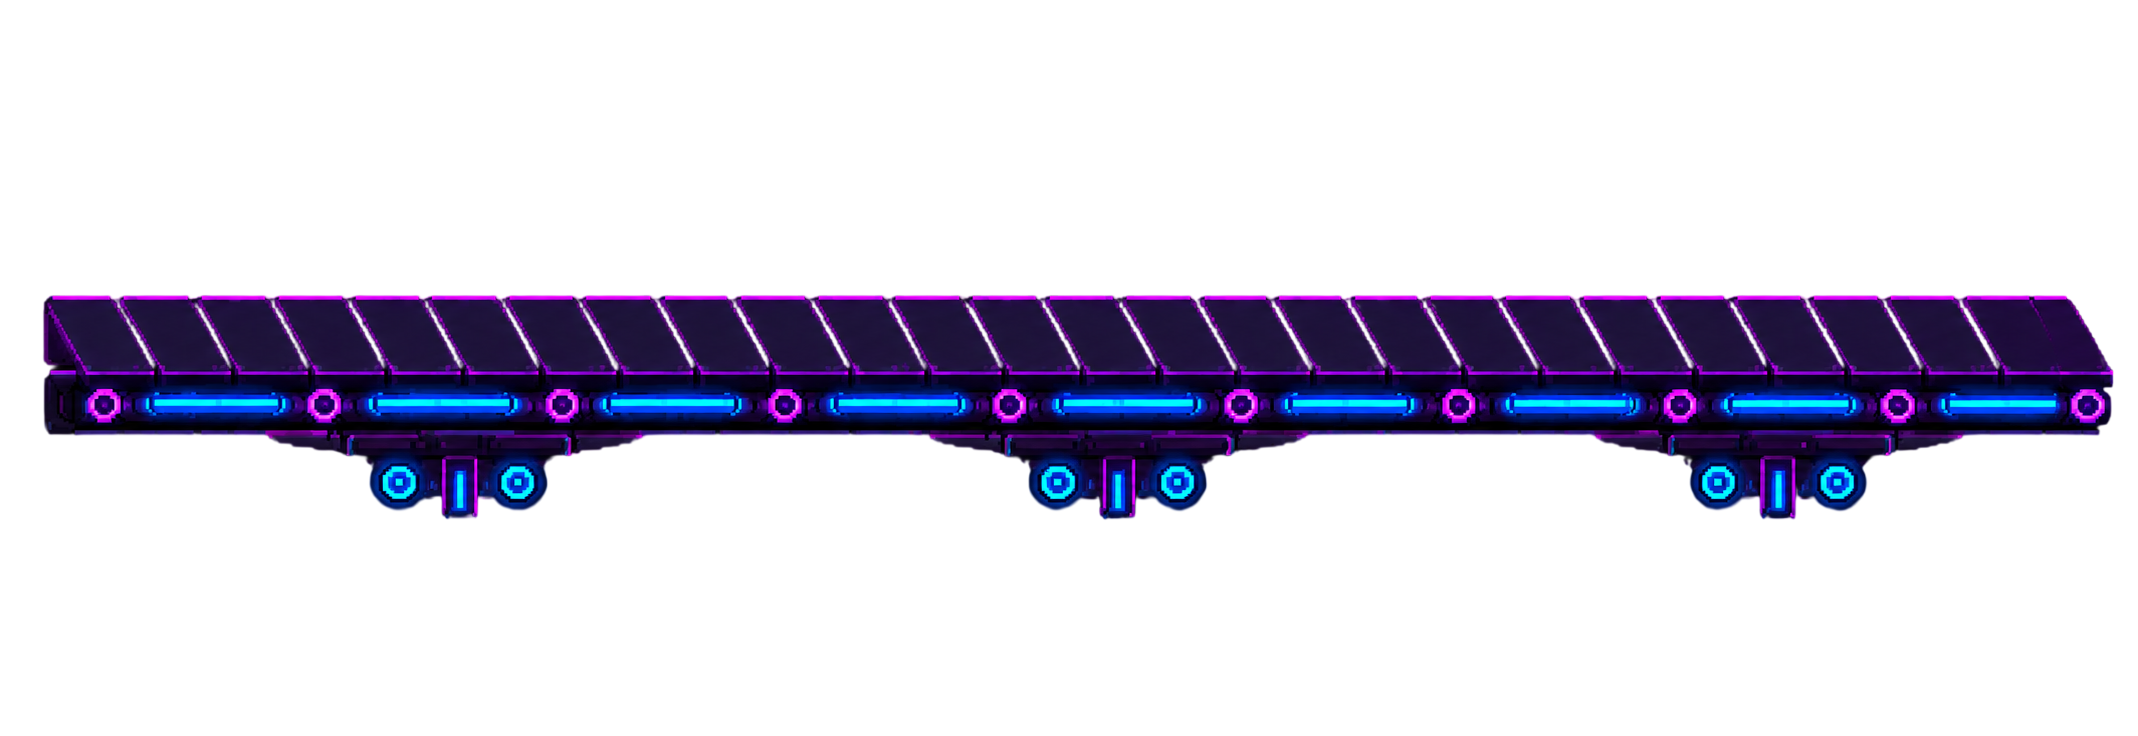
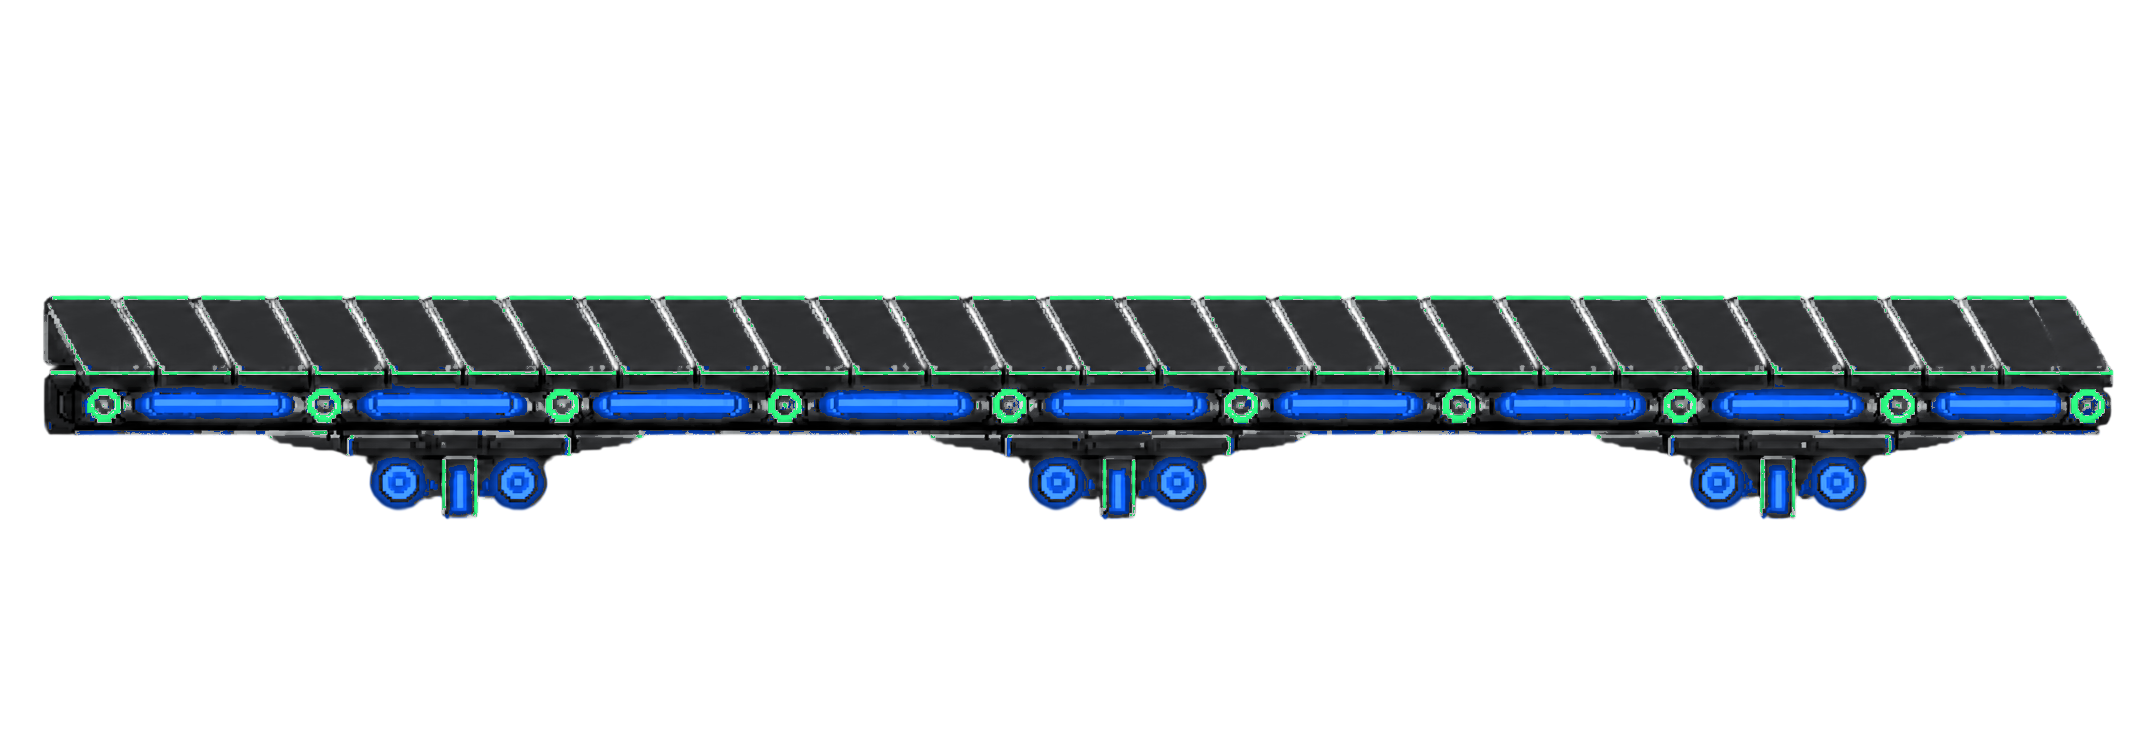
Uniko Wave: esteira recolorida em cinza, preto, cinza claro, azul e verde
Os 3 frames da esteira da Guerra Estelar (roxo/magenta/ciano) viram:
placas cinza, sombras/base preta, detalhes cinza claro, luzes azuis e
anéis/bordas neon verdes. Recolor por matiz preservando o brilho de cada
pixel (mesmo desenho). A esteira procedural de fallback (enquanto as
imagens carregam) segue a mesma paleta. Mapas com esteira própria
(beltUrl) não mudam.

Claude-Session: https://claude.ai/code/session_01K7Wrk8x5Zsu4rRhhWoSRbJ

Changed region(s): [[0.0, 0.375, 0.9878, 0.7188]]

diff --git a/public/unikowave/index.html b/public/unikowave/index.html
@@ -9477,19 +9477,19 @@ function wgDrawBelt(gy,h){
   }
   // Fallback procedural (caso as imagens ainda não tenham carregado)
   const bg=ctx.createLinearGradient(0,gy,0,gy+h);
-  bg.addColorStop(0,'#3a2456'); bg.addColorStop(0.5,'#241338'); bg.addColorStop(1,'#0d0820');
+  bg.addColorStop(0,'#4a4e55'); bg.addColorStop(0.5,'#2c2f34'); bg.addColorStop(1,'#0c0d0f'); // cinza → preto
   ctx.fillStyle=bg; ctx.fillRect(0,gy,CW,h);
   ctx.save(); ctx.beginPath(); ctx.rect(0,gy,CW,h); ctx.clip();
   // sombra interna no topo (a esteira "afunda" sob o chão)
   const sh=ctx.createLinearGradient(0,gy,0,gy+h*0.55);
   sh.addColorStop(0,'rgba(0,0,0,.5)'); sh.addColorStop(1,'rgba(0,0,0,0)');
   ctx.fillStyle=sh; ctx.fillRect(0,gy,CW,h*0.55);
-  // treads diagonais com RELEVO: sombra escura deslocada + faixa rosa + brilho fino
+  // treads diagonais com RELEVO: sombra escura deslocada + faixa cinza clara + brilho fino
   const seg=34, scroll=(animT*340)%seg;
   for(let x=CW - scroll; x>-seg; x-=seg){
     ctx.strokeStyle='rgba(0,0,0,.55)'; ctx.lineWidth=6; ctx.beginPath(); ctx.moveTo(x+3,gy+4); ctx.lineTo(x-12,gy+h-1); ctx.stroke();      // sombra
-    ctx.strokeStyle='rgba(255,46,154,.5)'; ctx.lineWidth=3; ctx.beginPath(); ctx.moveTo(x,gy+3);   ctx.lineTo(x-15,gy+h-3); ctx.stroke();   // corpo
-    ctx.strokeStyle='rgba(255,150,215,.65)'; ctx.lineWidth=1; ctx.beginPath(); ctx.moveTo(x-1,gy+3); ctx.lineTo(x-16,gy+h-3); ctx.stroke();  // brilho
+    ctx.strokeStyle='rgba(170,176,184,.5)'; ctx.lineWidth=3; ctx.beginPath(); ctx.moveTo(x,gy+3);   ctx.lineTo(x-15,gy+h-3); ctx.stroke();   // corpo
+    ctx.strokeStyle='rgba(225,230,236,.65)'; ctx.lineWidth=1; ctx.beginPath(); ctx.moveTo(x-1,gy+3); ctx.lineTo(x-16,gy+h-3); ctx.stroke();  // brilho
   }
   // sombra interna na base também (escurece o pé da esteira)
   const sh2=ctx.createLinearGradient(0,gy+h*0.5,0,gy+h);
@@ -9497,12 +9497,12 @@ function wgDrawBelt(gy,h){
   ctx.fillStyle=sh2; ctx.fillRect(0,gy+h*0.5,CW,h*0.5);
   ctx.restore();
   // bordas neon + linha de highlight logo abaixo do topo
-  ctx.shadowColor='rgba(0,240,255,.7)'; ctx.shadowBlur=glow?14:0;
-  ctx.strokeStyle='rgba(0,240,255,.95)'; ctx.lineWidth=3; ctx.beginPath(); ctx.moveTo(0,gy); ctx.lineTo(CW,gy); ctx.stroke();
+  ctx.shadowColor='rgba(40,130,255,.7)'; ctx.shadowBlur=glow?14:0;
+  ctx.strokeStyle='rgba(40,130,255,.95)'; ctx.lineWidth=3; ctx.beginPath(); ctx.moveTo(0,gy); ctx.lineTo(CW,gy); ctx.stroke();
   ctx.shadowBlur=0;
-  ctx.strokeStyle='rgba(190,245,255,.35)'; ctx.lineWidth=1; ctx.beginPath(); ctx.moveTo(0,gy+2); ctx.lineTo(CW,gy+2); ctx.stroke();
-  ctx.shadowColor='rgba(255,46,154,.7)'; ctx.shadowBlur=glow?12:0;
-  ctx.strokeStyle='rgba(255,46,154,.9)'; ctx.lineWidth=3; ctx.beginPath(); ctx.moveTo(0,gy+h); ctx.lineTo(CW,gy+h); ctx.stroke();
+  ctx.strokeStyle='rgba(200,205,212,.35)'; ctx.lineWidth=1; ctx.beginPath(); ctx.moveTo(0,gy+2); ctx.lineTo(CW,gy+2); ctx.stroke();
+  ctx.shadowColor='rgba(46,255,133,.7)'; ctx.shadowBlur=glow?12:0;
+  ctx.strokeStyle='rgba(46,255,133,.9)'; ctx.lineWidth=3; ctx.beginPath(); ctx.moveTo(0,gy+h); ctx.lineTo(CW,gy+h); ctx.stroke();
   ctx.shadowBlur=0;
 }
 
